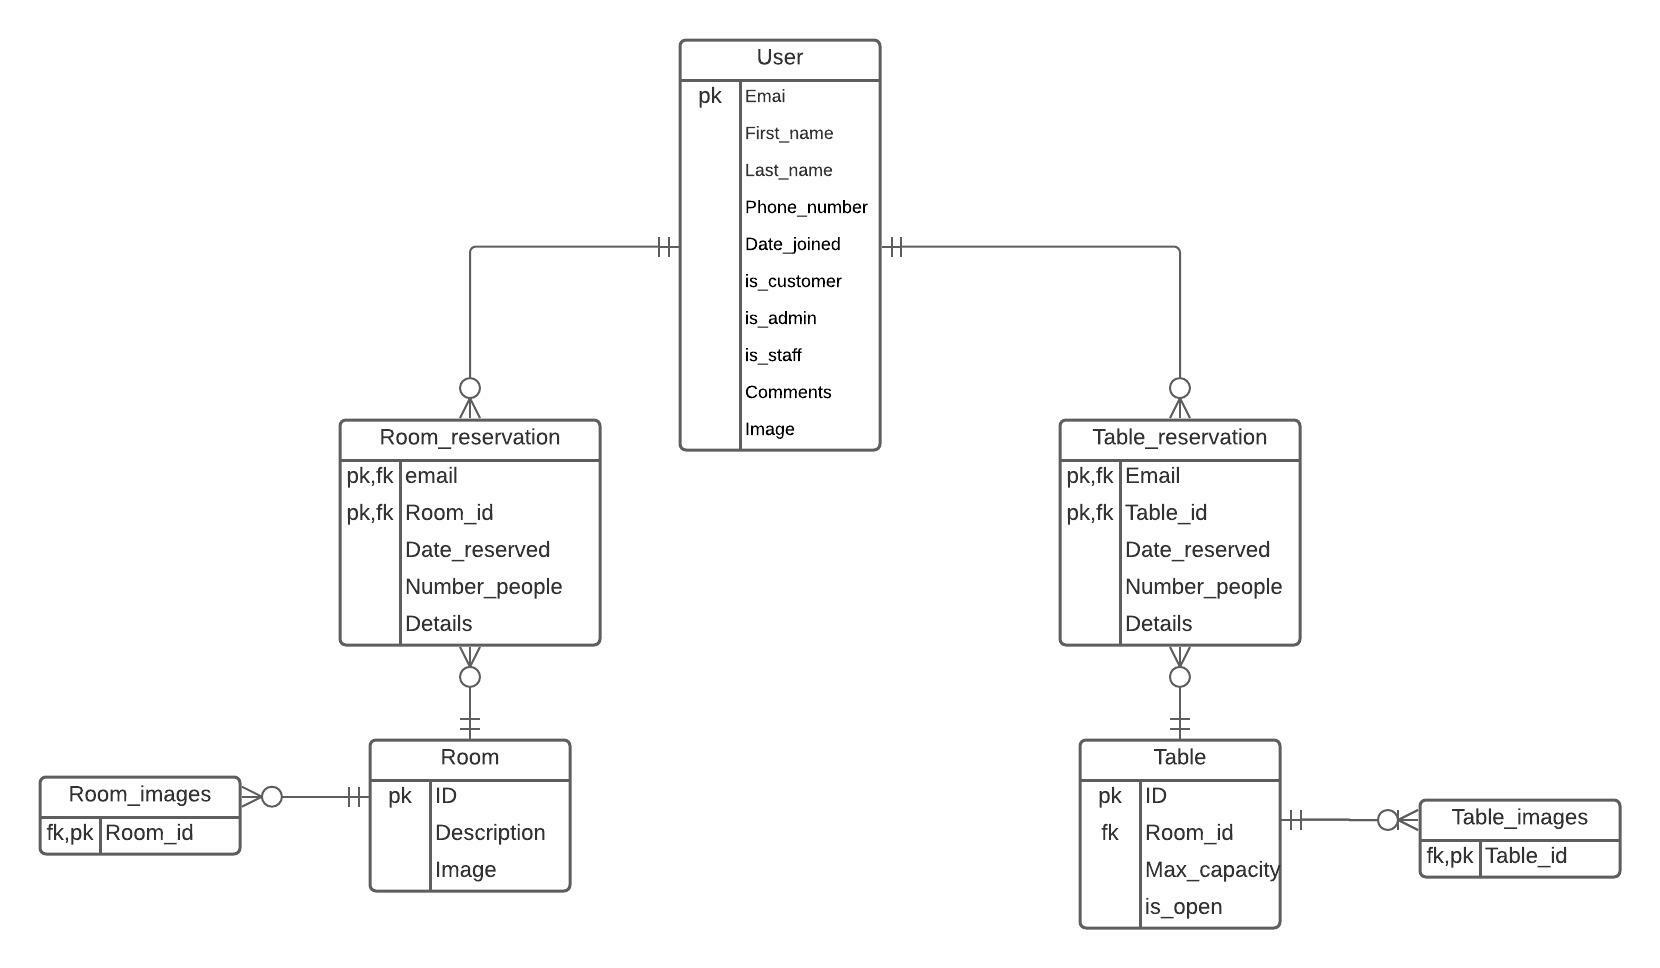
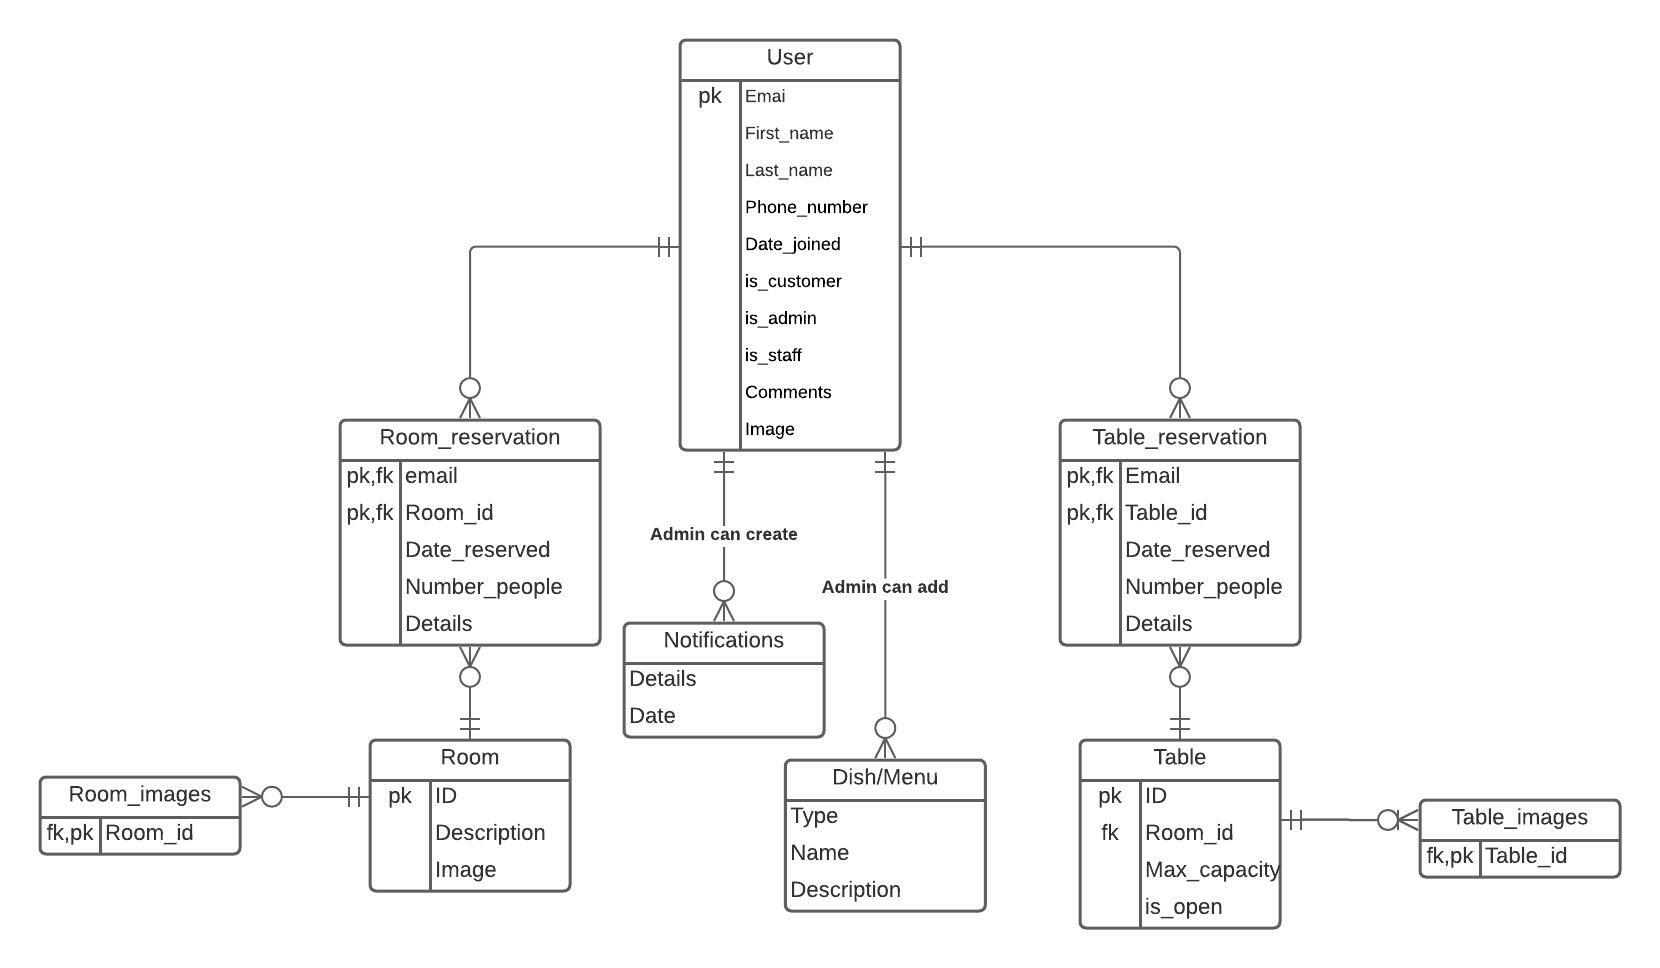
Added menu plan

diff --git a/README.md b/README.md
@@ -34,5 +34,8 @@ User features:
     it can merge for space or if customers will manually have to select both tables. This will defy the purpose of the system as customers will have to manually
     select two tables making it inconvenient. 
   - Big events should only be made thorugh the accounts where a customer puts a request and the manager can call them and if an agreement is made the the admin can     close a room. The puspose of the account for events is just to put a request with time in advance.
+
+Other features:
+  - Menu will be dynamic and only admins can add items or delete items from the db
  
-Although this system can probably not be used in a real world as anyone can register with many emails and reserve the entire restaurant measures will be takes as just one reservation per day or a better email integration where a new registered user will get an email with a unique code so they can activate reservation priviledges so this way emails will have to be real. Things like this will be further integrated down the road.
+Although this system can probably not be used in a real world as anyone can register with many emails and reserve the entire restaurant, measures will be taken such as just one reservation per day or a better email integration where a new registered user will get an email with a unique code so they can activate reservation priviledges so this way emails will have to be real. I can also include a penalty method for cancelled reservations last minute or not showing up to a reservation such as card inegration where users will get charged. Things like this will be further integrated down the road but in the case of the latter it would be a business ready integration. 
